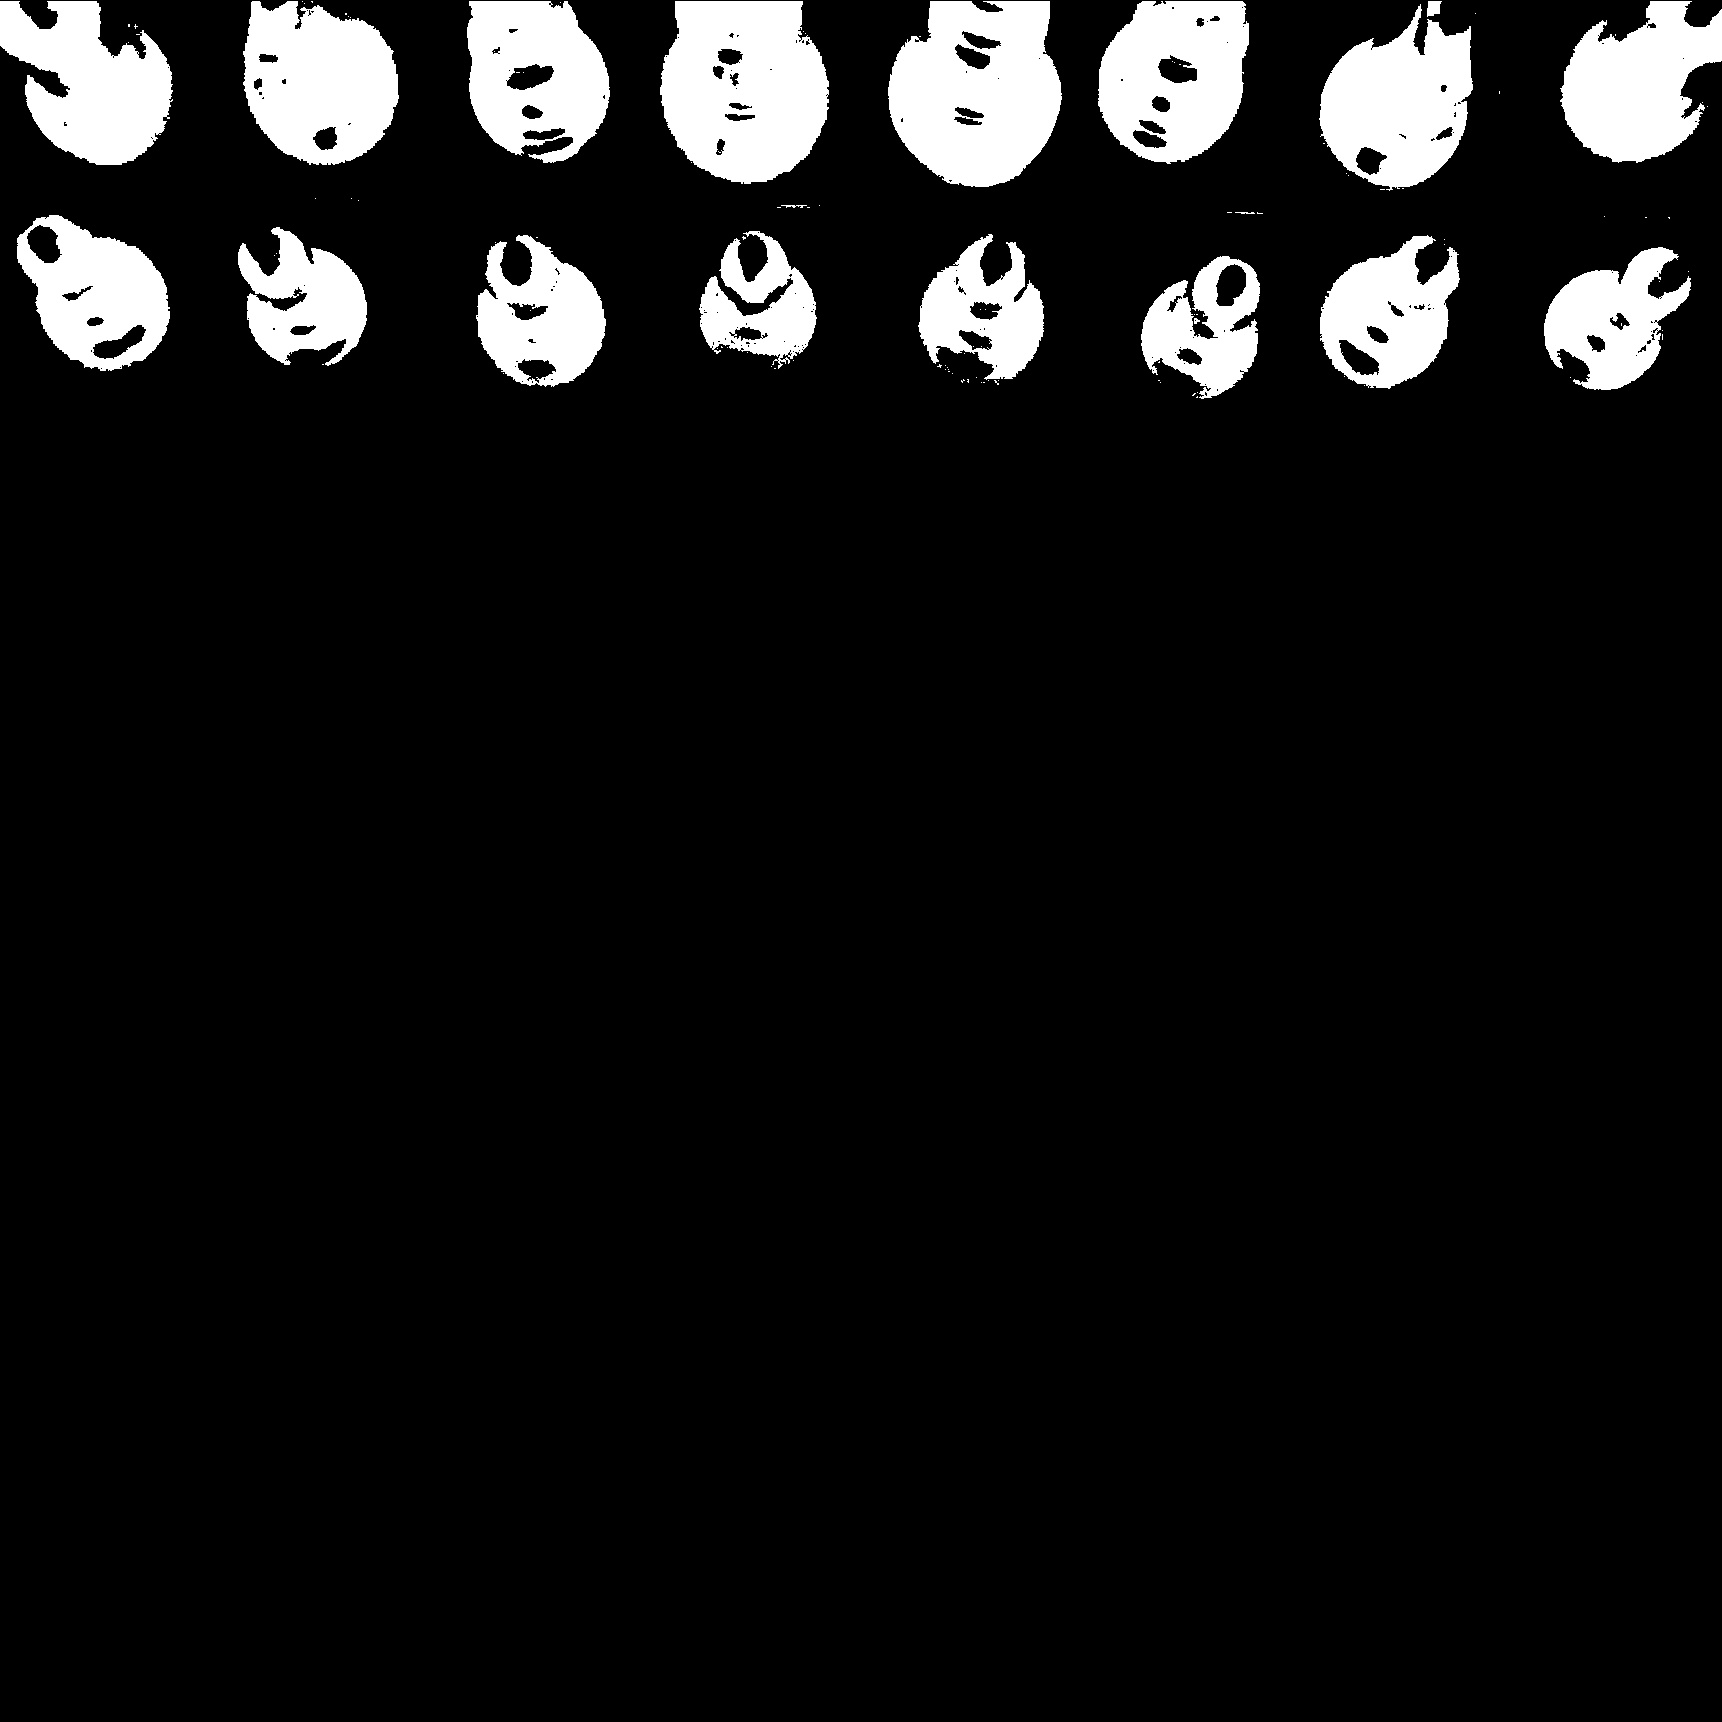
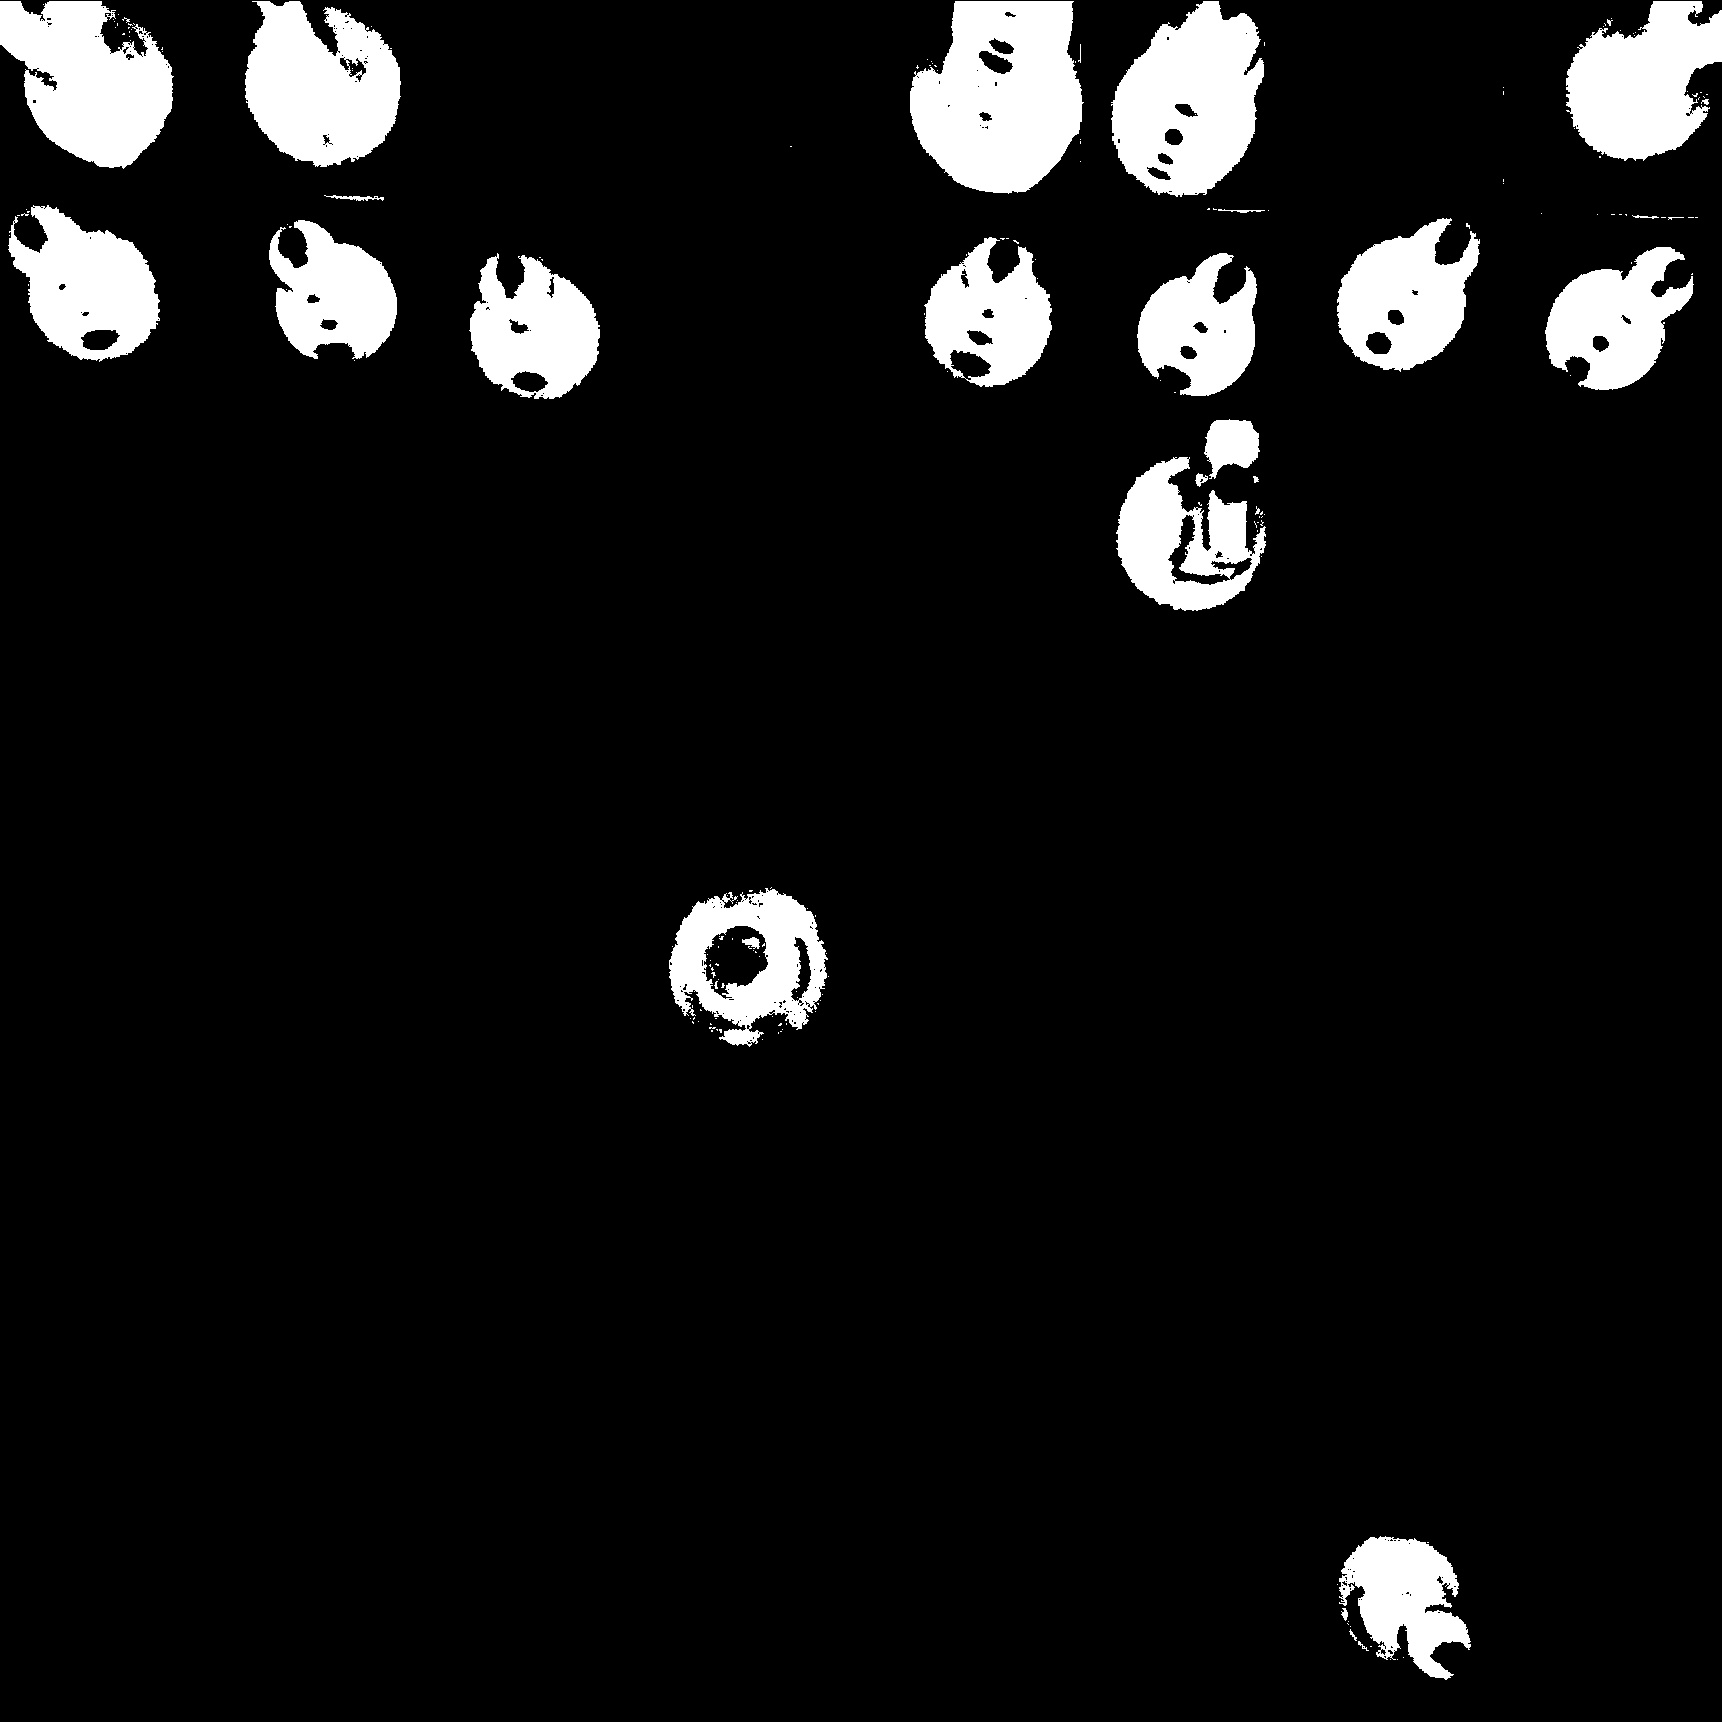
corrected vision mask

diff --git a/rpi/core.py b/rpi/core.py
@@ -64,7 +64,10 @@ def main():
         time.sleep(1)
         #Photograph board and decode state
         current_state = capture_board_state(camera)
+        print("Waiting for valid move")
+        print(board)
         print(current_state)
+        
         move = decode_move(board, current_state)
         if move != None:
             current_state = capture_board_state(camera)
@@ -81,12 +84,13 @@ def main():
                 print(board)
 
                 current = current + 2
-                time.sleep(2)
+                time.sleep(1)
                 print("Waiting for done signal")
+                DoneYet(spi)
                 while(DoneYet(spi) == 0):
                     time.sleep(2)
-                    current_state = capture_board_state(camera)
-                print("Please implement blue's move on the board")
+                    #current_state = capture_board_state(camera)
+                print("Done")
 
                 while(not np.array_equal(current_color_mask(board), current_state)):
                     current_state = capture_board_state(camera)

diff --git a/rpi/vision.py b/rpi/vision.py
@@ -11,9 +11,9 @@ from game import *
 #manually determined
 corners = ((538, 98), (2260, 76), (2274, 1778), (594, 1820))
 
-blue_lower = (0,210,30)
+blue_lower = (0,180,40)
 #blue_upper = (20,254,180)
-blue_upper = (15,255,100)
+blue_upper = (30,255,200)
 #blue_lower = (85,55,0)
 #blue_upper = (100,80,30)
 orange_lower = (110,100,100)
@@ -45,14 +45,14 @@ def capture_board_state(camera):
     board = rotate(board, 90)
     #cv2.imwrite('board.jpg', board)
     
-    """
+    
     hsv_img = cv2.cvtColor(board,cv2.COLOR_RGB2HSV)
     print(hsv_img[528][342])
     blue = cv2.inRange(hsv_img, blue_lower, blue_upper) 
     orange = cv2.inRange(hsv_img, orange_lower, orange_upper)
     cv2.imwrite('orange.jpg', orange)
     cv2.imwrite('blue.jpg', blue)
-    """
+    
     #produce color map based on board layout
     positions = read_board(board)
     return positions
